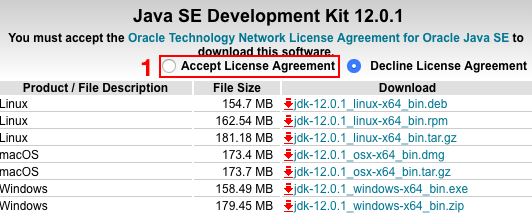
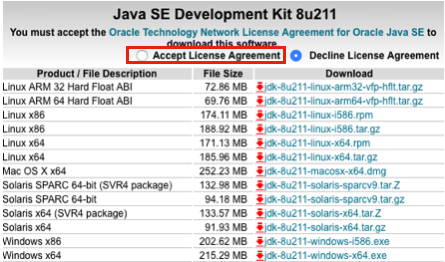
Fix: java 12 -> java 8

diff --git a/window-guide.md b/window-guide.md
@@ -33,15 +33,17 @@ cmd에서
 
 ### 1. Oracle 페이지 접속
 
-https://www.oracle.com/technetwork/java/javase/downloads/jdk12-downloads-5295953.html
+https://www.oracle.com/technetwork/java/javase/downloads/jdk8-downloads-2133151.html
 
 ### 2. JDK 다운로드
 
-[Java SE Development Kit 12.0.1]에서 1번과 같이 [Accept License Agreement]를 선택한 후 windows 설치
+[Java SE Development Kit 8u211]에서 1번과 같이 [Accept License Agreement]를 선택한 후 windows x64 설치
 
 ![](./images/mac1.png)
 
-(exe, zip 둘 중 어느 것을 택하셔도 무관합니다.)
+**(컴퓨터가 32bit 운영체제인 경우 Windows x86을 설치해주세요. 이는 [내 PC] - [속성] - [시스템]에서 확인할 수 있습니다.)**
+
+![](./images/window13.png)
 
 ---
 
@@ -75,13 +77,13 @@ JAVA_HOME 환경변수를 추가해 줄 것입니다.
 JAVA_HOME 변수가 있고 변수 값이 존재한다면 
 
 ~~~
-;C:\Program Files\Java\jdk-12.0.1
+;C:\Program Files\Java\jdk-1.8.0_211
 ~~~
 
 존재하지 않는다면 변수 이름에 JAVA_HOME을 입력하고
 
 ~~~
-C:\Program Files\Java\jdk-12.0.1
+C:\Program Files\Java\jdk-1.8.0_211
 ~~~
 
 ![](./images/window4.png)

diff --git a/mac-guide.md b/mac-guide.md
@@ -31,13 +31,13 @@ java --version
 
 ### 1. Oracle 페이지 접속
 
-https://www.oracle.com/technetwork/java/javase/downloads/jdk12-downloads-5295953.html
+https://www.oracle.com/technetwork/java/javase/downloads/jdk8-downloads-2133151.html
 
 ---
 
 ### 2. JDK 다운로드
 
-[Java SE Development Kit 12.0.1]에서 1번과 같이 [Accept License Agreement]를 선택한 후 MacOS 설치
+[Java SE Development Kit 8u211]에서 1번과 같이 [Accept License Agreement]를 선택한 후 MacOS 설치
 
 ![](./images/mac1.png)
 
